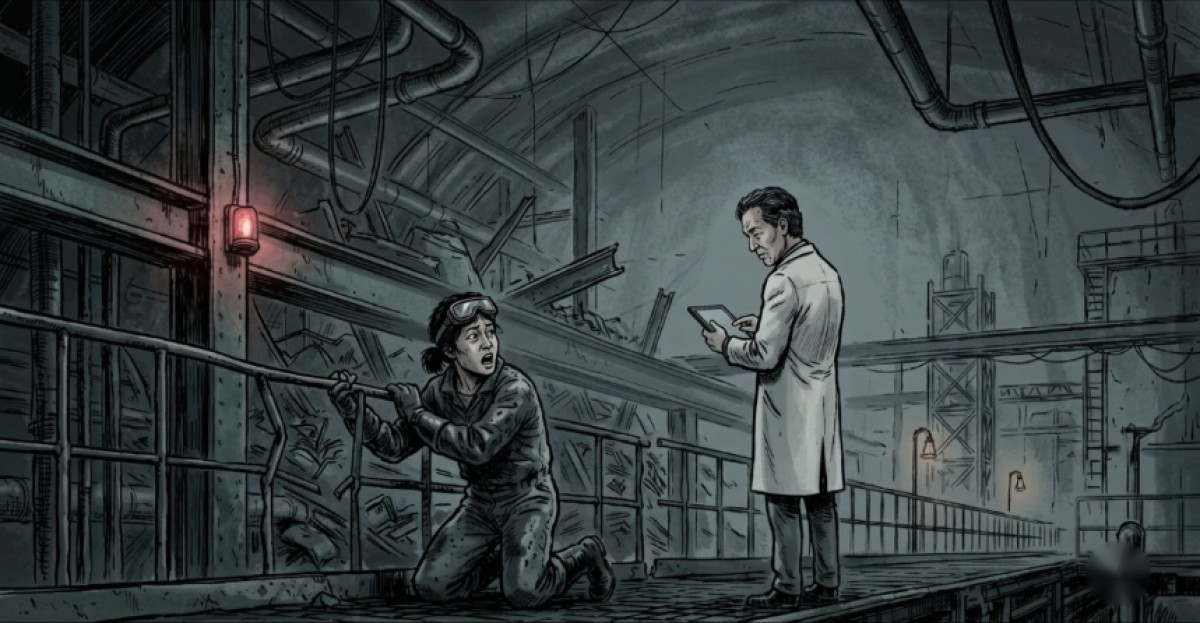
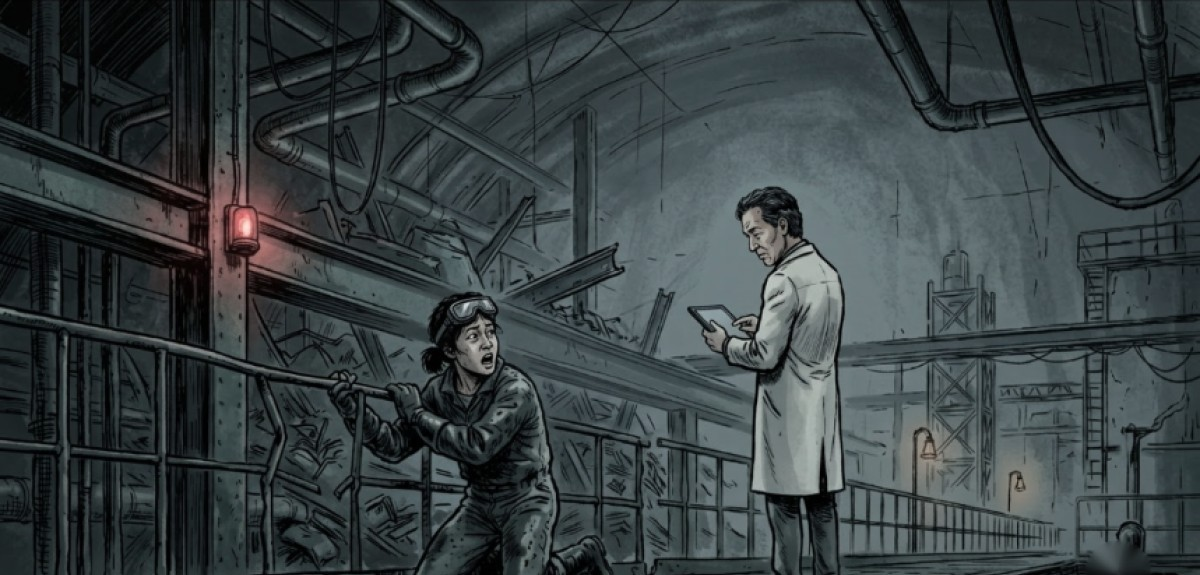
8화 공장 사고 컷 말풍선을 인물 쪽으로, 워터마크 잘라냄
Claude-Session: https://claude.ai/code/session_018twa3QMQYz3PY4RAJxVLUb

diff --git a/ep06t/index.html b/ep06t/index.html
@@ -294,7 +294,7 @@ html.mo .snd{animation:mo-fade 1s ease-out 1.2s backwards}
   <div class="p"><img src="h12a.jpg" alt="검은 기름 표면에 떠오른 퍼즐 조각 하나가 천천히 가라앉음"></div>
   <div class="easy-cap">엄마 주머니 속 마지막 조각도 함께.</div>
   <div class="p"><img src="h13.jpg" alt="부서진 난간 끝에 무릎 꿇은 여자 동료와 기름 위에 떠 있는 장갑"><div class="cap" style="left:3%;top:5%">옆 탱크 동료는 그 손을 잡지 못했다.</div></div>
-  <div class="p"><img src="h13a.jpg" alt="부서진 난간 앞, 무릎 꿇은 여자 동료가 고개를 들어 소리치고 흰 가운의 관리자는 태블릿만 봄"><div class="bub bl" style="right:4.5%;top:53.7%">사람이 빠졌다고요!<br>라인 세워요!</div><div class="bub br" style="left:4.4%;top:5.6%">세워서 뭐 해.<br>이미 들어갔는데.</div></div>
+  <div class="p"><img src="h13a.jpg" alt="부서진 난간 앞, 무릎 꿇은 여자 동료가 고개를 들어 소리치고 흰 가운의 관리자는 태블릿만 봄"><div class="bub bl" style="left:4%;top:5%;max-width:34%">사람이 빠졌다고요!<br>라인 세워요!</div><div class="bub br" style="right:3%;left:auto;top:9%;max-width:30%">세워서 뭐 해.<br>이미 들어갔는데.</div></div>
   <div class="p"><img src="h14.jpg" alt="붉은 도장이 찍힌 관리자의 태블릿"></div>
   <div class="rec doc">사고 기록 · 기름 구역 1호 3번 기름 탱크<br>작업자 1명 이탈<br>조치: 없음 · 라인 정지: 없음</div>
   <div class="p"><img src="h15.jpg" alt="공장을 빠져나가는 은색 탱크로리 행렬"><div class="cap" style="left:3%;top:5%">3번 기름 탱크의 기름은<br>그날에도 출하되었다.</div></div>
